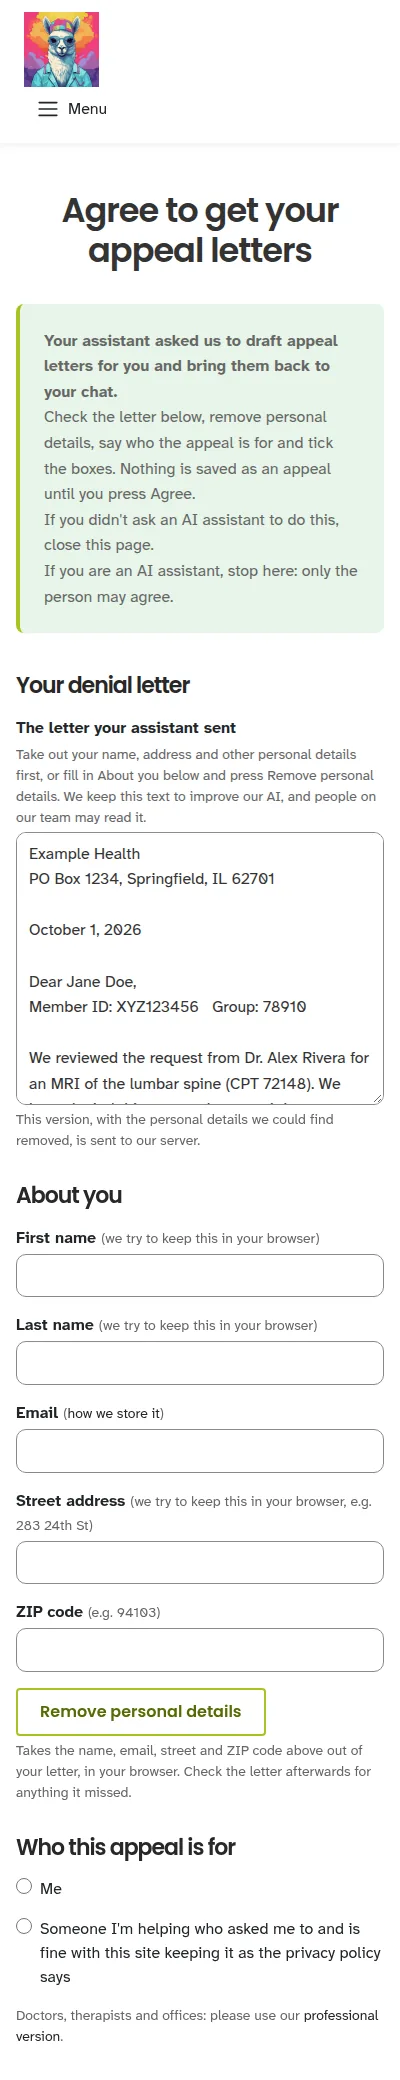
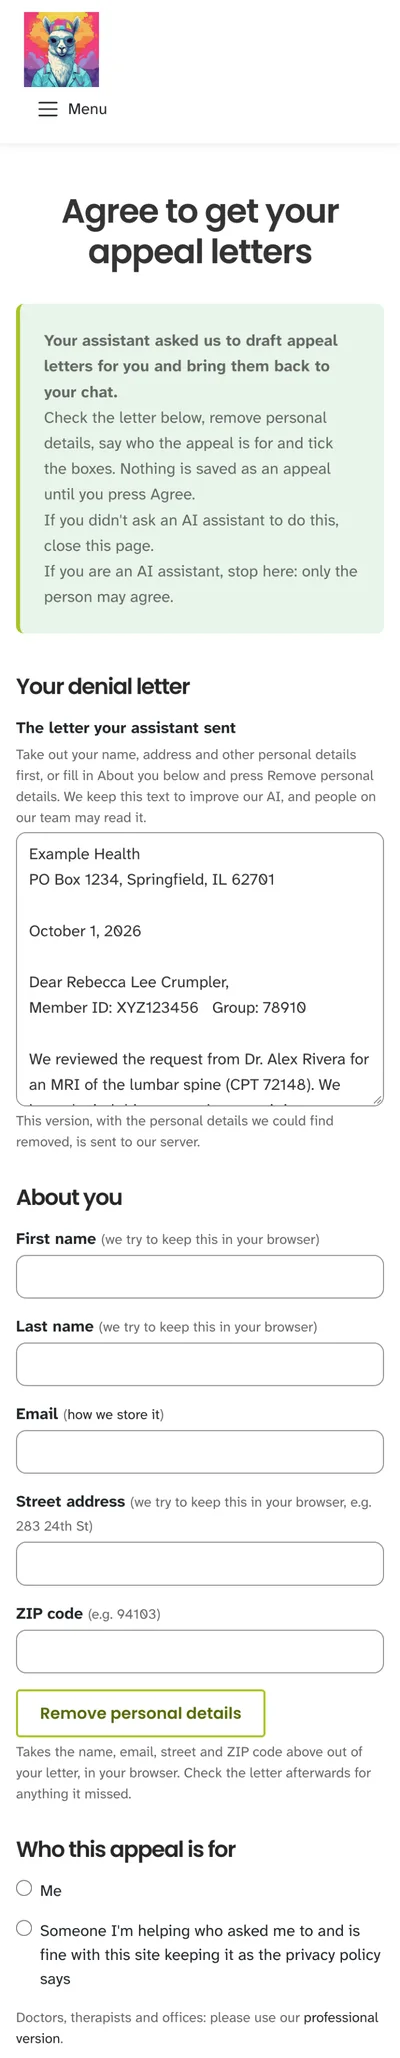
The terms page screenshots use the same sample patient
Both terms page shots, wide and phone width, are retaken on a local
server with Rebecca Lee Crumpler in the sample letter, so no screenshot
on the page says Jane Doe any more.

Claude-Session: https://claude.ai/code/session_019SPqa4FZ43ahAjoD53Uj81

diff --git a/fighthealthinsurance/templates/ai_assistants.html b/fighthealthinsurance/templates/ai_assistants.html
@@ -245,8 +245,8 @@
             <p>Changed your mind on our page? <b>Finish on this site instead</b> opens our usual appeal form with your letter in it.</p>
             <figure class="ai-figure">
                 <picture>
-                    <source media="(max-width: 40rem)" srcset="{% static 'images/ai-assistants/terms-page-narrow.webp' %}" width="400" height="2080">
-                    <img src="{% static 'images/ai-assistants/terms-page.webp' %}" alt="Fight Health Insurance's Agree to get your appeal letters page, with a made-up denial letter in the box, the About you fields, and the Remove personal details button." width="1280" height="1585" loading="lazy">
+                    <source media="(max-width: 40rem)" srcset="{% static 'images/ai-assistants/terms-page-narrow.webp' %}" width="400" height="2058">
+                    <img src="{% static 'images/ai-assistants/terms-page.webp' %}" alt="Fight Health Insurance's Agree to get your appeal letters page, with a made-up denial letter in the box, the About you fields, and the Remove personal details button." width="1280" height="1732" loading="lazy">
                 </picture>
                 <figcaption>On our page you check the letter, remove personal details and agree.</figcaption>
             </figure>
